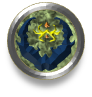
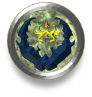
update detail troupe: bouclier et icones icones armees

Changed region(s): [[0.1522, 0.0928, 0.8478, 0.7423]]

diff --git a/chronopia/armylist/static/Detail_Troupe/partyDetail.html b/chronopia/armylist/static/Detail_Troupe/partyDetail.html
@@ -27,14 +27,14 @@
 
 						<DIV ID="unitCardName" CLASS="unitCardIcons">{{partyDetailCtrl.selectedTroup.unit.name}}</DIV>
 						<DIV ID="unitCardPic" CLASS="unitCardIcons" STYLE="background-image:url({{partyDetailCtrl.selectedTroup.unit.model_pic}});"></DIV>
-						<DIV ID="unitCardArmy" CLASS="unitCardIcons" STYLE="background-image:url(/static/img/army{{partyDetailCtrl.selectedTroup.unit.army}}.png);">{{partyDetailCtrl.selectedTroup.unit.type2}}</DIV>
+						<DIV ID="unitCardArmy" CLASS="unitCardIcons" STYLE="background-image:url({{partyDetailCtrl.selectedTroup.unit.clan.model_pic}});">{{partyDetailCtrl.selectedTroup.unit.type2}}</DIV>
 						<DIV ID="unitCardWounds" CLASS="unitCardIcons">{{partyDetailCtrl.selectedTroup.unit.wound}}</DIV>
 						<DIV ID="unitCardLeadership" CLASS="unitCardIcons">{{partyDetailCtrl.selectedTroup.unit.commandment}}</DIV>
 						<DIV ID="unitCardActions" CLASS="unitCardIcons">{{partyDetailCtrl.selectedTroup.unit.action}}</DIV>
 						<DIV ID="unitCardMovement" CLASS="unitCardIcons">{{partyDetailCtrl.selectedTroup.unit.mouvement}}<br>{{partyDetailCtrl.selectedTroup.unit.vol}}</DIV>
 						<DIV ID="unitCardMinMax" CLASS="unitCardIcons">[{{partyDetailCtrl.selectedTroup.unit.min}}-{{partyDetailCtrl.selectedTroup.unit.max}}]</DIV>
 						<DIV ID="unitCardArmor" CLASS="unitCardIcons">{{partyDetailCtrl.selectedTroup.unit.armure}}</DIV>
-						<DIV ID="unitCardDefense" CLASS="unitCardIcons">{{partyDetailCtrl.selectedTroup.unit.defence}}/{{partyDetailCtrl.selectedTroup.unit.defence}}</DIV>
+						<DIV ID="unitCardDefense" CLASS="unitCardIcons">{{partyDetailCtrl.selectedTroup.unit.defence}}/{{partyDetailCtrl.selectedTroup.unit.bouclier}}</DIV>
 						<DIV ID="unitCardPower" CLASS="unitCardIcons"><!--ng-show=partyDetailCtrl.IsMago(partyDetailCtrl.selectedTroup.unit)-->{{partyDetailCtrl.selectedTroup.unit.magie}}</DIV>
 						<DIV ID="unitCardCost" CLASS="unitCardIcons">{{partyDetailCtrl.selectedTroup.unit.cost}}</DIV>
 						<DIV ID="unitCardStrength" CLASS="unitCardIcons">F{{partyDetailCtrl.selectedTroup.unit.force}}</DIV>
